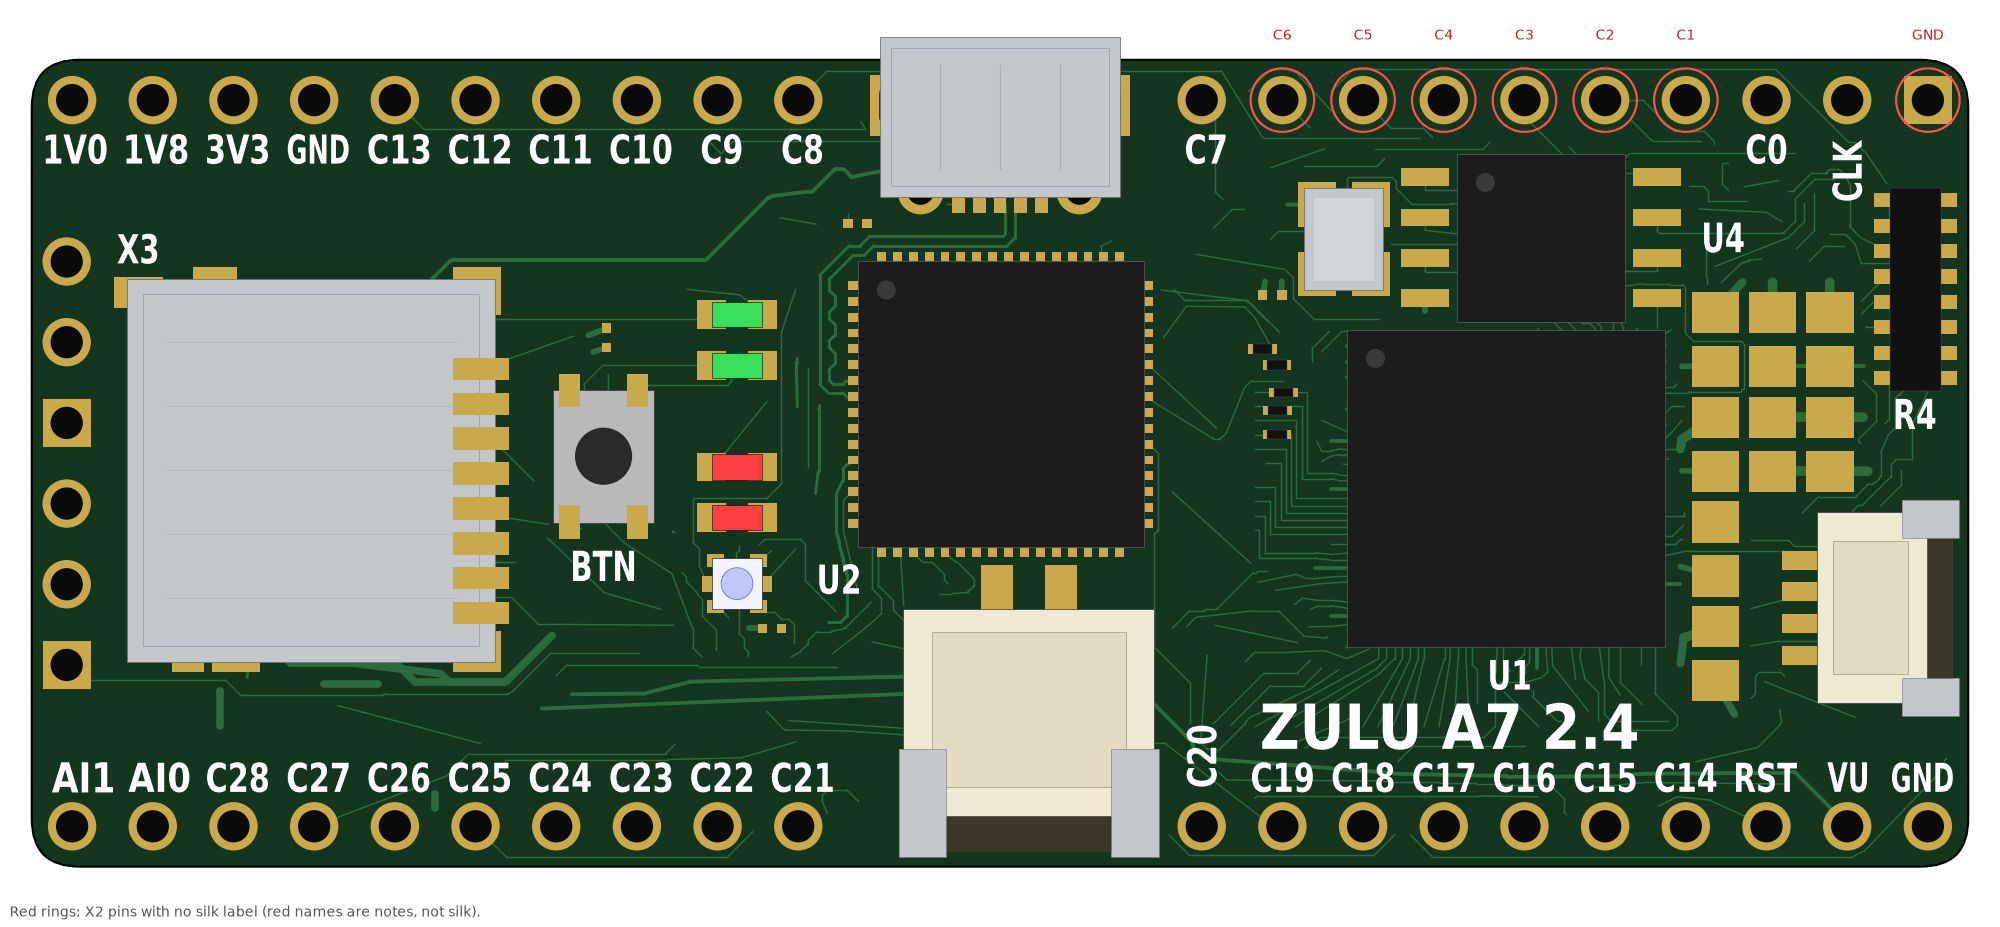
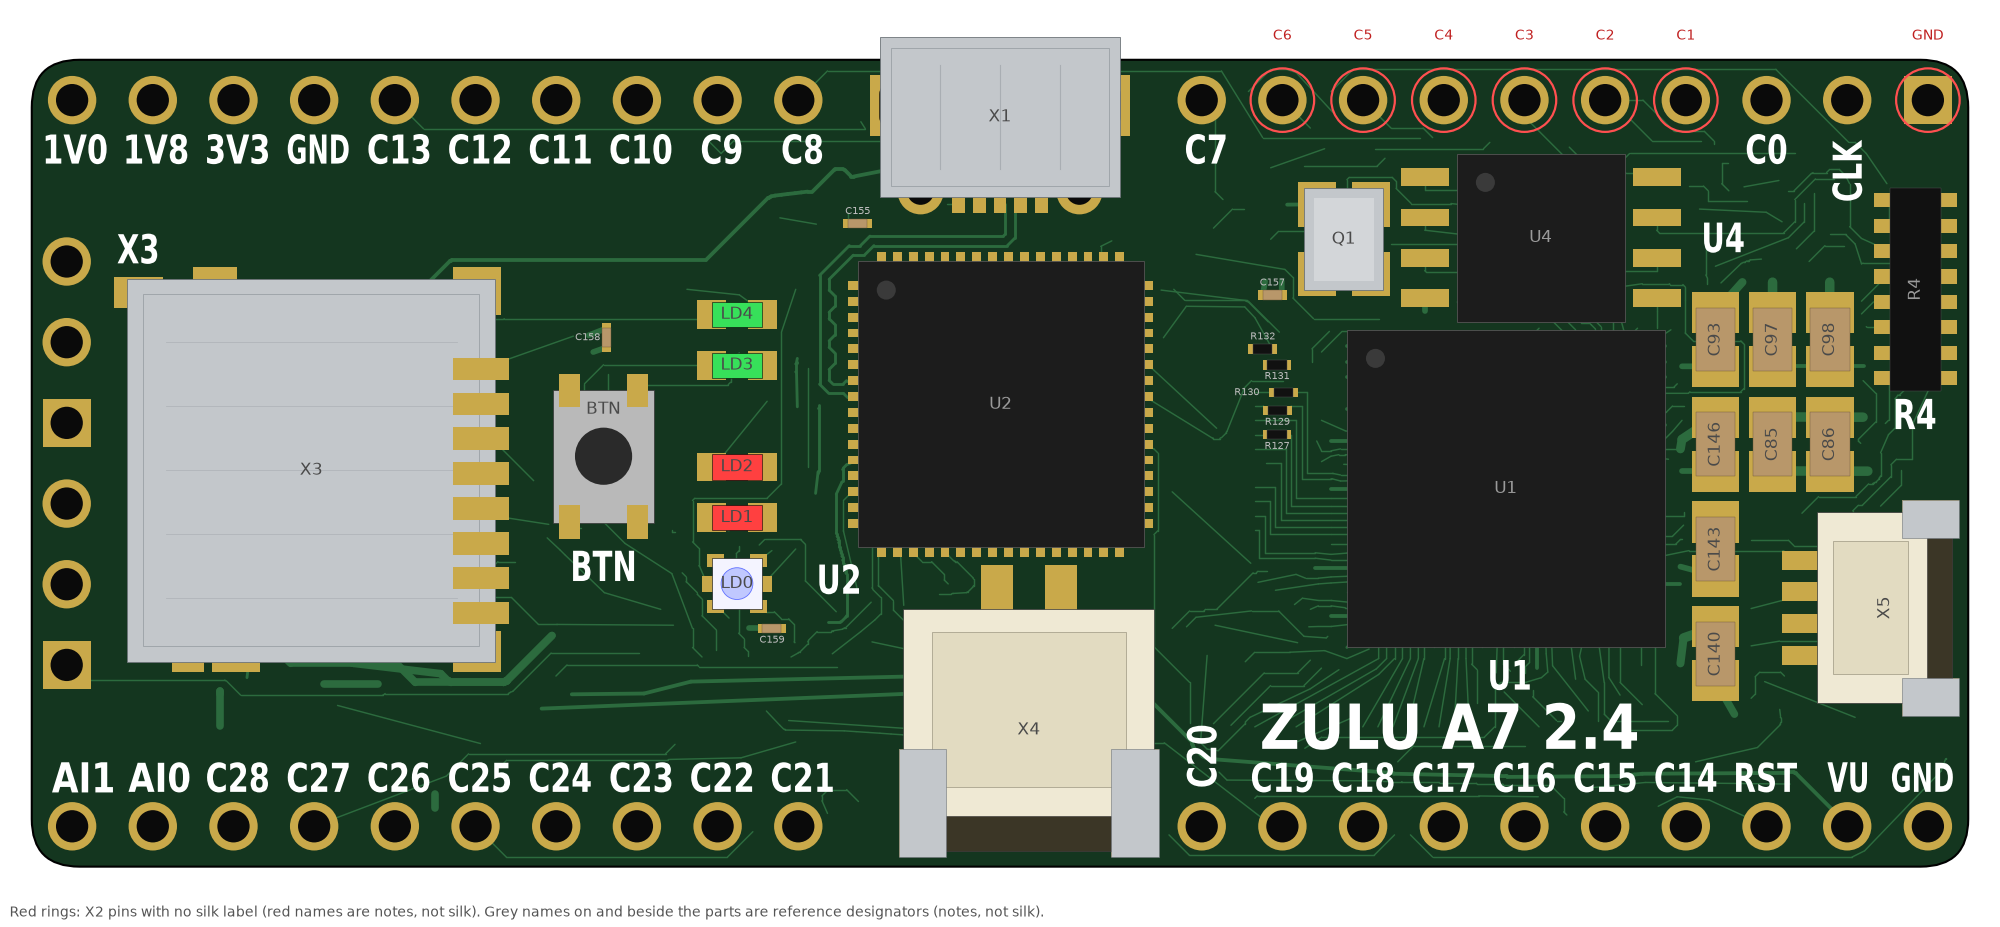
Zulu_a7_no_pmod Rev 3: reference designators on the top illustration
- board_illustration.py: every Top-side part carries its reference
  designator in grey, inside the body and as large as fits (up to the
  bottom view's 12 pt). The 0201s get a small note beside the part, in a
  spot that covers no body, pad, silk or other note (new ref_notes()).
- BTN's note sits above the actuator. Top chip capacitors are drawn
  with a ceramic body, as on the back. The footer says the grey names
  are notes, not silk. The fallback title position is y 3.77.
- docs/board_illustration_top.png redrawn from board 66148256.

diff --git a/Zulu_A7_no_pmod/Rev_3/tools/board_illustration.py b/Zulu_A7_no_pmod/Rev_3/tools/board_illustration.py
@@ -41,6 +41,12 @@ font: advance = height, last glyph about 2/3 of the height wide).  X2 pins that 
 and a small red note outside the board (a note, not silk); on the 2026-11-24 board these are pins 1 and 4-9 (pin 21
 now prints 'GND').  The board outline is a plain rectangle; the corners are
 rounded for the picture only.
+
+Reference-designator notes (2026-11-24, board owner: "add refdes on components on top, like you did on the bottom
+with U3, U7, U8 and U10"): every Top-side part with a body carries its designator in grey, inside the body and as
+large as fits (up to the back side's 12 pt), or, for parts too small for that (the 0201s), in a small light-grey
+note right beside the part where it covers no other body, pad, silk text or note. Chip capacitors on the Top are
+drawn with a ceramic body, as on the back. The notes are not silk.
 """
 import argparse
 import hashlib
@@ -140,7 +146,7 @@ def fallback_silk(pads):
         w = (len(s) - 1) * h + 0.667 * h
         out.append(dict(text=s, kind='free', x=p['x'] - w / 2, y=p['y'] - 3.19 if top else p['y'] + 2.39, h=h, rot=0,
                         stroke=0.15))
-    out.append(dict(text='ZULU A7 2.4', kind='free', x=37.7, y=5.0, h=1.3, rot=0, stroke=0.18))
+    out.append(dict(text='ZULU A7 2.4', kind='free', x=37.7, y=3.77, h=1.3, rot=0, stroke=0.18))
     return out
 
 
@@ -172,6 +178,53 @@ def text_in_box(ax, s, box, rot=0, color=SILK, z=8):
     else:
         tr = tr.scale(h / e.width, w / e.height).rotate_deg(90).translate(x1, y0)
     ax.add_patch(PathPatch(tp.transformed(tr), fc=color, lw=0, zorder=z))
+
+
+# ----------------------------------------------------------------------------------------------- ref notes
+NOTE_ON_DARK, NOTE_ON_LIGHT = '#9a9a9a', '#4a4a4a'
+NOTE_EM_MAX_PT = 12.0          # the back side's IC notes are 12 pt
+NOTE_EM_MIN, NOTE_EM_SMALL = 0.25, 0.30   # mm: smallest em inside a body; em of a note set beside a tiny part
+GLYPH_W, GLYPH_H = 0.62, 0.75  # DejaVu Sans: mean advance and cap height per em (letters and digits)
+
+
+def ref_notes(ax, parts, pts_per_mm, obstacles, light, where=None):
+    """Grey reference-designator notes on the drawn parts (2026-11-24, board owner: "add refdes on components on
+    top, like you did on the bottom with U3, U7, U8 and U10"). parts: [(ref, body box (x0, y0, x1, y1))].
+    A note goes inside its body, centred, along the body's long axis and as large as fits (up to NOTE_EM_MAX_PT);
+    a body too small for a NOTE_EM_MIN em gets a NOTE_EM_SMALL note beside it, left / right / above / below,
+    wherever it overlaps no other body, pad, silk text or note (stepping out to 0.9 mm). where: {ref: box} puts a
+    note in that part of its body instead (BTN: the band above the actuator). Returns the refs with no place."""
+    placed, missed = [], []
+    where = where or {}
+
+    def hits(b, own):
+        return any(not (b[2] <= o[0] or o[2] <= b[0] or b[3] <= o[1] or o[3] <= b[1])
+                   for o in obstacles + placed if o is not own)
+    for ref, own in sorted(parts, key=lambda rb: (rb[1][2] - rb[1][0]) * (rb[1][3] - rb[1][1])):
+        b = where.get(ref, own)
+        w, h = b[2] - b[0], b[3] - b[1]
+        rot = 90 if h > 1.4 * w else 0
+        L, S = (h, w) if rot else (w, h)
+        em = min(NOTE_EM_MAX_PT / pts_per_mm, 0.9 * L / (GLYPH_W * len(ref)), 0.8 * S / GLYPH_H)
+        col = NOTE_ON_LIGHT if light(ref) else NOTE_ON_DARK
+        if em >= NOTE_EM_MIN:
+            ax.text((b[0] + b[2]) / 2, (b[1] + b[3]) / 2, ref, ha='center', va='center', fontsize=em * pts_per_mm,
+                    color=col, rotation=rot, zorder=6.5)
+            continue
+        em = NOTE_EM_SMALL
+        tw, th, g = GLYPH_W * len(ref) * em, GLYPH_H * em + 0.06, 0.08
+        cx, cy = (b[0] + b[2]) / 2, (b[1] + b[3]) / 2
+        spots = [s for d in (g, g + 0.4, g + 0.8) for s in
+                 ((b[0] - d - tw / 2, cy), (b[2] + d + tw / 2, cy), (cx, b[3] + d + th / 2), (cx, b[1] - d - th / 2))]
+        for x, y in spots:
+            box = (x - tw / 2, y - th / 2, x + tw / 2, y + th / 2)
+            if not hits(box, own):
+                ax.text(x, y, ref, ha='center', va='center', fontsize=em * pts_per_mm, color='#bdbdbd', zorder=6.5)
+                placed.append(box)
+                break
+        else:
+            missed.append(ref)
+    return missed
 
 
 # ----------------------------------------------------------------------------------------------- drawing
@@ -231,6 +284,13 @@ def draw(ax, M, D, silk, pts_per_mm):
     for ref in refs:
         if ref.startswith('R') and side.get(ref) == 'TOP' and box(ref):
             rect(box(ref), fc='#111111', ec='#555555', lw=0.3)
+    # chip capacitors and inductors, drawn as on the back (2026-11-24: their ref notes need a body to sit on)
+    for ref in refs:
+        if side.get(ref) == 'TOP' and box(ref) and ref[0] in 'CL' and not ref.startswith('LD'):
+            if ref.startswith('C'):
+                rect(box(ref), fc=CERAMIC, ec='#6d5636', lw=0.3)
+            else:
+                rect(box(ref), fc=INDUCTOR, ec='#111111', lw=0.4)
     # LEDs (colours from the silk comments: LD1/LD2 red, LD3/LD4 green, LD0 RGB)
     for ref, c in (('LD1', RED_LED), ('LD2', RED_LED), ('LD3', GREEN_LED), ('LD4', GREEN_LED)):
         if box(ref):
@@ -307,6 +367,26 @@ def draw(ax, M, D, silk, pts_per_mm):
         else:
             ax.add_patch(Circle((p['x'], p['y']), r, fc=PAD, lw=0, zorder=z))
         ax.add_patch(Circle((p['x'], p['y']), p['drill'] / 2, fc=DRILL, lw=0, zorder=z + 0.1))
+
+    # grey reference-designator notes on every Top-side part with a body (not silk)
+    obstacles = [v['body'][0] for r, v in bodies.items() if v['body'] and not r.startswith('X2[')]
+    obstacles += [(p['x'] - p['w'] / 2, p['y'] - p['h'] / 2, p['x'] + p['w'] / 2, p['y'] + p['h'] / 2)
+                  for p in M['pads'] if on_top(p)]
+    for t in silk:
+        if t['text'].strip():
+            x0, x1, y0, y1 = silk_box(t)
+            obstacles.append((x0, y0, x1, y1))
+    obstacles.append((W - 0.05, -9, W + 9, H + 9))                          # keep notes on the board
+    obstacles.append((-9, -9, 0.05, H + 9))
+    parts = [(r, v['body'][0]) for r, v in bodies.items()
+             if v['body'] and not r.startswith('X2[') and side.get(r) == 'TOP']
+    light = lambda r: r in ('X1', 'X3', 'X4', 'X5', 'Q1', 'BTN') or r.startswith(('LD', 'C'))   # noqa: E731
+    where = {}
+    if box('BTN'):                                                          # above the round actuator (r 0.9)
+        b = box('BTN')
+        where['BTN'] = (b[0] + 0.2, (b[1] + b[3]) / 2 + 0.95, b[2] - 0.2, b[3] - 0.1)
+    missed = ref_notes(ax, parts, pts_per_mm, obstacles, light, where)
+    print('top ref notes: %d parts%s' % (len(parts), ', no room for ' + ', '.join(missed) if missed else ''))
 
     # silk
     labelled = set()
@@ -473,9 +553,9 @@ def main():
     ax = fig.add_axes([0, 0, 1, 1])
     pts_per_mm = fig_w * 72.0 / (xr[1] - xr[0])
     notes = draw(ax, M, D, silk, pts_per_mm)
-    if notes:
-        ax.text(xr[0] + 0.3, yr[0] + 0.45, 'Red rings: X2 pins with no silk label (red names are notes, not silk).',
-                ha='left', va='center', fontsize=10, color='#555555')
+    ax.text(xr[0] + 0.3, yr[0] + 0.45, ('Red rings: X2 pins with no silk label (red names are notes, not silk). '
+            if notes else '') + 'Grey names on and beside the parts are reference designators (notes, not silk).',
+            ha='left', va='center', fontsize=10, color='#555555')
     ax.set_xlim(*xr)
     ax.set_ylim(*yr)
     ax.set_aspect('equal')
